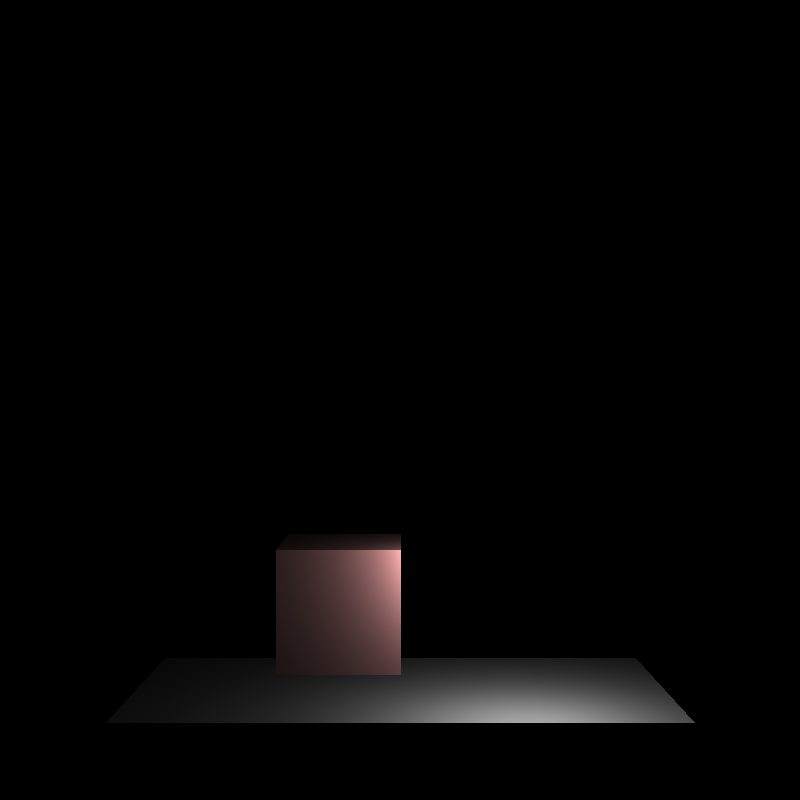
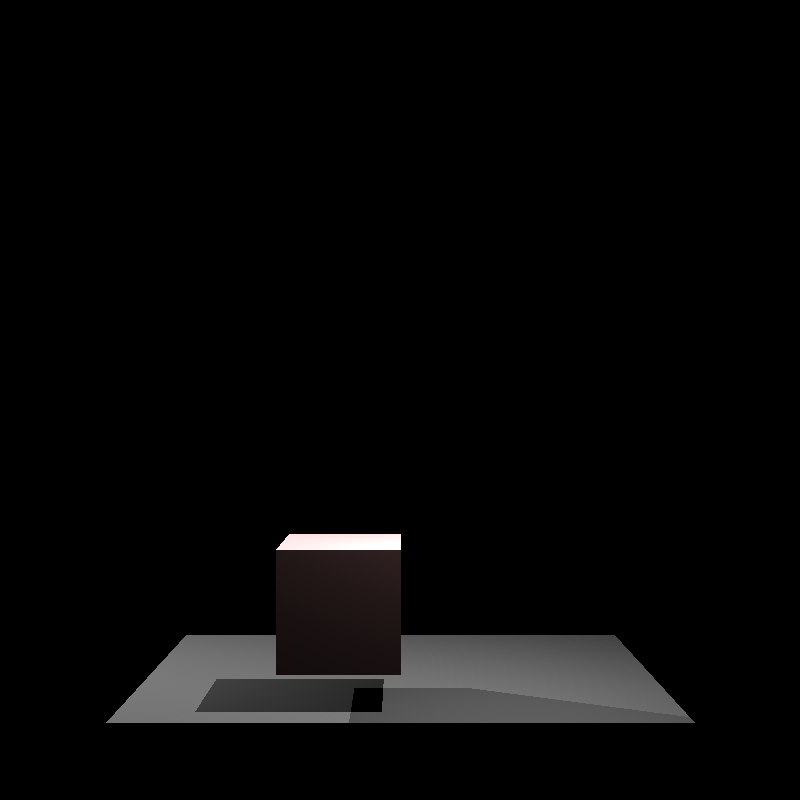
finish-light-falloff-and-shadow

Changed region(s): [[0.125, 0.6562, 0.875, 0.9062]]

diff --git a/src/edu/up/isgc/raytracer/Raytracer.java b/src/edu/up/isgc/raytracer/Raytracer.java
@@ -34,9 +34,17 @@ public class Raytracer {
 		System.out.println(new Date());
 		Scene scene01 = new Scene();
 		scene01.setCamera(new Camera(new Vector3D(0, 0, -8), 160, 160, 800, 800, 8.2f, 50f));
-		scene01.addLight(new PointLight(new Vector3D(1.0, -1.0, 0.0), Color.WHITE, 3));
+		scene01.addLight(new PointLight(new Vector3D(1.0, 2.0, 0.0), Color.WHITE, 15));
+		scene01.addLight(new PointLight(new Vector3D(-4.0, 2.0, 2.0), Color.WHITE, 15));
 		scene01.addObject(OBJReader.GetPolygon("Cube.obj", new Vector3D(-.5f, -2.2f, 1f), Color.PINK));
-		scene01.addObject(OBJReader.GetPolygon("panel.obj", new Vector3D(0f, -2.5f, 0f), Color.GRAY));
+		scene01.addObject(OBJReader.GetPolygon("panel.obj", new Vector3D(0f, -2.5f, 1f), Color.GRAY));
+		/*
+		 * scene01.addLight(new PointLight(new Vector3D(0.0f, 3.0f, -1.0f), Color.WHITE,
+		 * 30)); scene01.addObject(OBJReader.GetPolygon("Cube.obj", new Vector3D(0.0f,
+		 * -1.0f, 1.0f), Color.PINK));
+		 * scene01.addObject(OBJReader.GetPolygon("panel.obj", new Vector3D(0.0f, -2.5f,
+		 * 1.0f), Color.LIGHT_GRAY));
+		 */
 
 		BufferedImage image = raytrace(scene01);
 		File outputImage = new File("image.png");
@@ -60,8 +68,9 @@ public class Raytracer {
 				if (intersection != null) {
 					double distance = intersection.getDistance();
 
-					if (distance >= 0 && (closestIntersection == null || distance < closestIntersection.getDistance()) && (clippingPlanes == null
-							|| (intersection.getPosition().getZ() >= clippingPlanes[0] && intersection.getPosition().getZ() <= clippingPlanes[1]))) {
+					if (distance >= 0 && (closestIntersection == null || distance < closestIntersection.getDistance())
+							&& (clippingPlanes == null || (intersection.getPosition().getZ() >= clippingPlanes[0]
+									&& intersection.getPosition().getZ() <= clippingPlanes[1]))) {
 						closestIntersection = intersection;
 					}
 				}
@@ -75,7 +84,8 @@ public class Raytracer {
 		Camera mainCamera = scene.getCamera();
 		ArrayList<Light> lights = scene.getLights();
 		float[] nearFarPlanes = mainCamera.getNearFarPlanes();
-		BufferedImage image = new BufferedImage(mainCamera.getResolution()[0], mainCamera.getResolution()[1], BufferedImage.TYPE_INT_RGB);
+		BufferedImage image = new BufferedImage(mainCamera.getResolution()[0], mainCamera.getResolution()[1],
+				BufferedImage.TYPE_INT_RGB);
 		ArrayList<Object3D> objects = scene.getObjects();
 
 		Vector3D[][] positionsToRaytrace = mainCamera.calculatePositionsToRay();
@@ -86,8 +96,9 @@ public class Raytracer {
 				double z = positionsToRaytrace[i][j].getZ() + mainCamera.getPosition().getZ();
 				Ray ray = new Ray(mainCamera.getPosition(), new Vector3D(x, y, z));
 
-				Intersection closestIntersection = raycast(ray, objects, null, new float[] {
-						(float) mainCamera.getPosition().getZ() + nearFarPlanes[0], (float) mainCamera.getPosition().getZ() + nearFarPlanes[1] });
+				Intersection closestIntersection = raycast(ray, objects, null,
+						new float[] { (float) mainCamera.getPosition().getZ() + nearFarPlanes[0],
+								(float) mainCamera.getPosition().getZ() + nearFarPlanes[1] });
 
 				// Background color
 				Color pixelColor = Color.BLACK;
@@ -95,16 +106,13 @@ public class Raytracer {
 					pixelColor = Color.BLACK;
 					for (Light light : lights) {
 						float nDotL = light.getNDotL(closestIntersection);
-						float intensity = 0f;
-						
-						if(light instanceof PointLight) {
-							float distance = (float) Vector3D.magnitude(Vector3D.substract(closestIntersection.getPosition(), light.getPosition()));
-							float li_intensity = (float) light.getIntensity() * nDotL;
-							intensity = li_intensity / (float)Math.pow(distance, 2);
-						} else {	
-							intensity = (float) light.getIntensity() * nDotL;
+						float intensity = (float) light.getIntensity() * nDotL;
+						if (light instanceof PointLight) {
+							intensity /= Math.pow(
+									Vector3D.magnitude(
+											Vector3D.substract(closestIntersection.getPosition(), light.getPosition())),
+									2);
 						}
-
 						float[] colors = new float[] { closestIntersection.getObject().getColor().getRed() / 255.0f,
 								closestIntersection.getObject().getColor().getGreen() / 255.0f,
 								closestIntersection.getObject().getColor().getBlue() / 255.0f };
@@ -112,7 +120,14 @@ public class Raytracer {
 						colors[1] *= intensity * (light.getColor().getGreen() / 255.0f);
 						colors[2] *= intensity * (light.getColor().getBlue() / 255.0f);
 
-						Color diffuse = new Color(clamp(colors[0], 0, 1), clamp(colors[1], 0, 1), clamp(colors[2], 0, 1));
+						// Shadow
+						Ray shadowRay = new Ray(closestIntersection.getPosition(), light.getPosition());
+						Intersection shadowIntersection = raycast(shadowRay, objects, closestIntersection.getObject(),
+								null);
+						Color diffuse = Color.black;
+						if (shadowIntersection == null) {
+							diffuse = new Color(clamp(colors[0], 0, 1), clamp(colors[1], 0, 1), clamp(colors[2], 0, 1));
+						}
 						pixelColor = addColor(pixelColor, diffuse);
 					}
 
